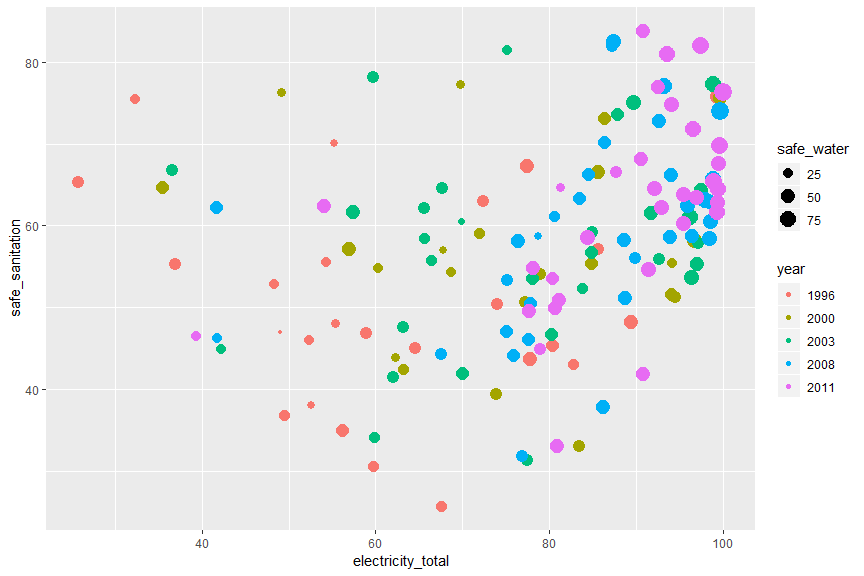
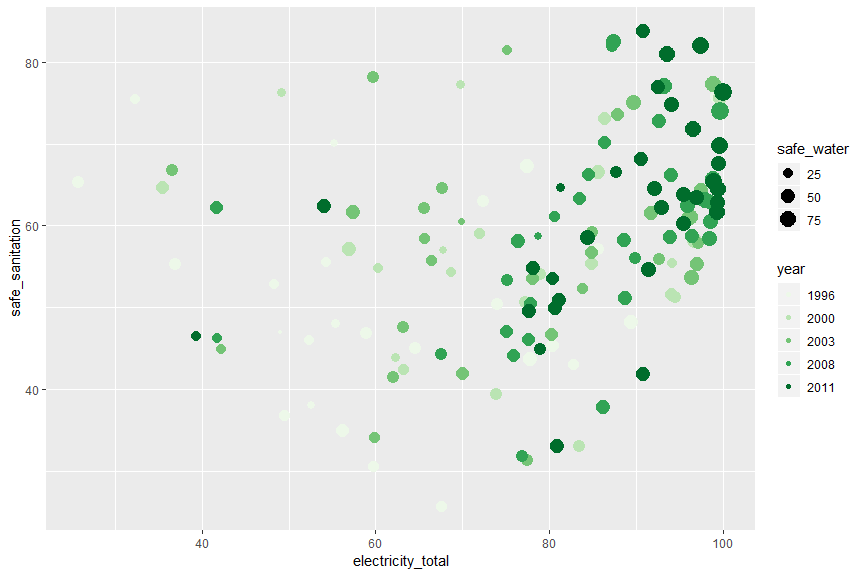
Revisi 004 Kustomisasi

diff --git a/vignettes/004_kostumisasi.md b/vignettes/004_kostumisasi.md
@@ -304,8 +304,8 @@ Selanjutnya Anda diminta untuk mengaktifkan paket ggplot2, magick, dan grid. Isi
 
 ``` r
 library(ggplot2)
-library(magick)
-library(grid)
+library(magick) #membaca gambar
+library(grid) #mengatur layout
 ```
 
 Dengan menggunakan dataset household\_access, buatlah *scatterplot* dengan nama plot\_household berdasarkan kriteria berikut:
@@ -320,7 +320,8 @@ plot_household <-
   household_access %>% 
   ggplot(aes(x = electricity_total, y = safe_sanitation, size = safe_water, colour = year)) +
   geom_point()
-plot_household
+plot_household +
+  scale_color_brewer(palette = 'Pastel') #menmabah warna 
 ```
 
 <img src="004_kostumisasi_files/figure-markdown_github/plot-household1-1.png" style="display: block; margin: auto;" />
@@ -360,7 +361,7 @@ plot_household <-
   plot_household +
   labs(
     title = "Scatter Plot Electricity Total and Safe Sanitation",
-    subtitle = "Electricity Total and Safe Sanitation",
+    subtitle = "Indonesia Database for Policy and Economic",
     caption = "Author: Aniq Rohmawati \n Contact: aniqmuchibbin@gmail.com \n Data source: The World Bank, 2019",
     x = "Electricity Total",
     y = "Safe Sanitation",
@@ -420,7 +421,7 @@ Selain dengan menggunakan *preset theme* dari ggplot2 atau meracik tema sendiri,
 
 ``` r
 plot_household +
-  facet_wrap(~year)
+  facet_wrap(~year) #membuat kanvas berdasarkan tahun coba 'face_grid(~year)'
 ```
 
 <img src="004_kostumisasi_files/figure-markdown_github/facet-plot_household-1.png" style="display: block; margin: auto;" />
